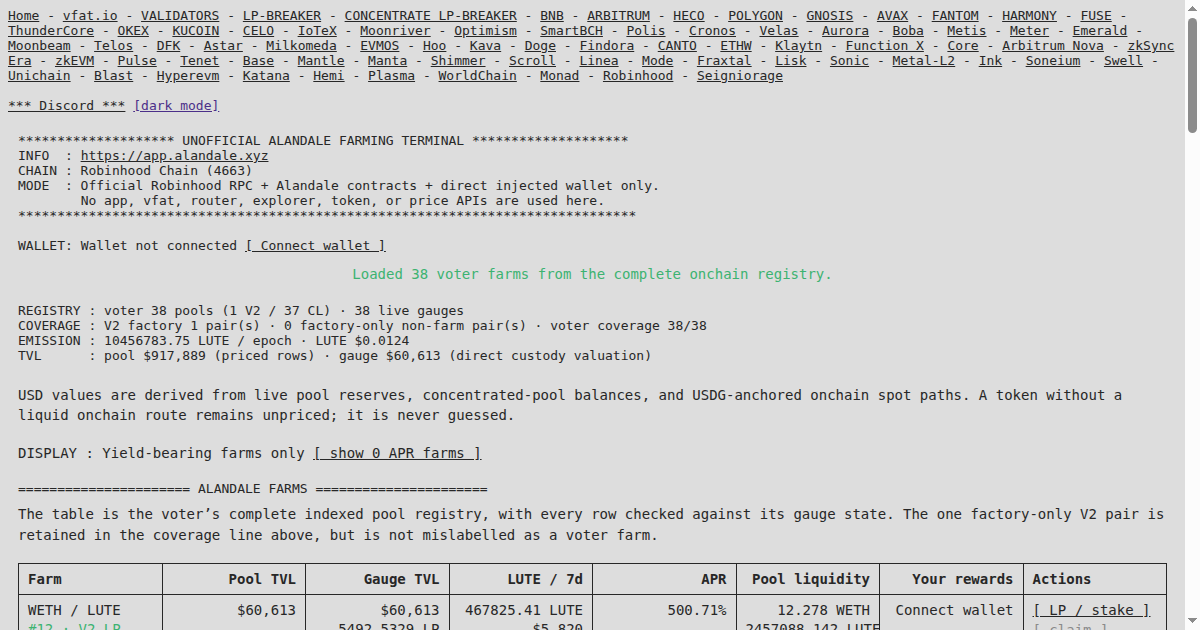
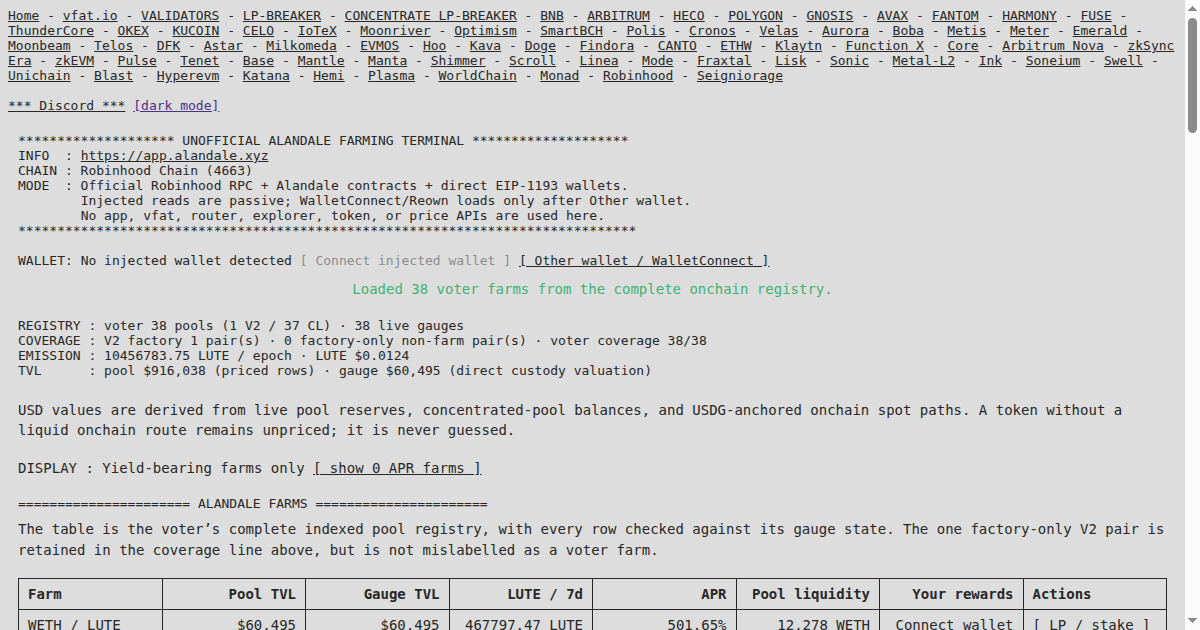
Add lazy Alandale other wallet path

Changed region(s): [[0.0, 0.2714, 0.9867, 1.0], [0.555, 0.9048, 0.9558, 1.0]]

diff --git a/src/js/robinhood_alandale.js b/src/js/robinhood_alandale.js
@@ -43,8 +43,11 @@ const Alandale = (function () {
   const maxUint = ethers.constants.MaxUint256
   const max128 = ethers.BigNumber.from(2).pow(128).sub(1)
   const Q96 = Math.pow(2, 96)
+  // The existing vfat.io AppKit project is intentionally referenced only by
+  // connectReown(), whose config module is dynamically imported after intent.
+  const reownProjectId = process.env.REOWN_PROJECT_ID || '3e6154a7158ff5f7509f24405fc3b551'
   const state = {
-    rpc: null, eip1193: null, account: null, walletChain: null, farms: [], farmByPool: new Map(), farmByGauge: new Map(), tokens: new Map(), prices: new Map(),
+    rpc: null, eip1193: null, walletSource: null, account: null, walletChain: null, walletListenerCleanup: [], reownUnsubscribe: null, farms: [], farmByPool: new Map(), farmByGauge: new Map(), tokens: new Map(), prices: new Map(),
     voterCounts: null, factoryPairs: [], factoryOnlyPairs: [], weeklyEmission: ethers.constants.Zero, epoch: ethers.constants.Zero, totalWeight: ethers.constants.Zero,
     showZeroApr: false, loading: false, loadingText: '', status: '', statusType: '', walletLoading: false, sending: false, positions: [], walletTokenBalances: new Map(), action: null
   }
@@ -55,6 +58,7 @@ const Alandale = (function () {
   const clean = function (value, length) { return String(value || '—').replace(/[\r\n|]/g, ' ').replace(/\s+/g, ' ').trim().slice(0, length || 44) || '—' }
   const short = function (address) { return address ? address.slice(0, 6) + '…' + address.slice(-4) : '—' }
   const isZero = function (address) { return !address || lower(address) === zero }
+  const injectedWallet = function () { return window.ethereum && typeof window.ethereum.request === 'function' ? window.ethereum : null }
   const deadline = function () { return Math.floor(Date.now() / 1000) + 1200 }
   const errText = function (error) { return String(error && (error.reason || error.data && error.data.message || error.message) || error).replace(/^Error: /, '').slice(0, 500) }
   const asNumber = function (amount, decimals) {
@@ -146,37 +150,88 @@ const Alandale = (function () {
     return left.concat(right)
   }
 
+  function clearProviderListeners () {
+    state.walletListenerCleanup.forEach(function (cleanup) { cleanup() })
+    state.walletListenerCleanup = []
+  }
+  function clearReownSubscription () {
+    if (state.reownUnsubscribe) state.reownUnsubscribe()
+    state.reownUnsubscribe = null
+  }
+  function clearWalletEvents () { clearProviderListeners(); clearReownSubscription() }
+  function bindProviderEvents (provider) {
+    clearProviderListeners()
+    if (!provider || typeof provider.on !== 'function') return
+    const accountsChanged = function (accounts) {
+      if (state.eip1193 !== provider) return
+      state.account = accounts && accounts[0] ? ethers.utils.getAddress(accounts[0]) : null
+      if (!state.account) { state.positions = []; state.walletTokenBalances = new Map(); render(); return }
+      refreshWallet().catch(fatal)
+    }
+    const chainChanged = function (walletChain) {
+      if (state.eip1193 !== provider) return
+      state.walletChain = walletChain
+      refreshWallet().catch(fatal)
+    }
+    provider.on('accountsChanged', accountsChanged); provider.on('chainChanged', chainChanged)
+    const remove = typeof provider.removeListener === 'function' ? provider.removeListener.bind(provider) : typeof provider.off === 'function' ? provider.off.bind(provider) : null
+    if (remove) {
+      state.walletListenerCleanup.push(function () { remove('accountsChanged', accountsChanged) })
+      state.walletListenerCleanup.push(function () { remove('chainChanged', chainChanged) })
+    }
+  }
+  async function adoptWallet (provider, accounts, source, walletChain) {
+    if (!provider || !accounts || !accounts[0]) return false
+    state.eip1193 = provider; state.walletSource = source; state.walletChain = walletChain
+    state.account = ethers.utils.getAddress(accounts[0]); bindProviderEvents(provider); render()
+    return true
+  }
   async function passiveWallet () {
-    const injected = window.ethereum && typeof window.ethereum.request === 'function' ? window.ethereum : null
+    const injected = injectedWallet()
     if (!injected) return false
     try {
-      // Only passive EIP-1193 reads occur on page load. No connector and no
-      // permission prompt is created until the user presses Connect.
+      // Startup is intentionally limited to the injected provider's passive
+      // account and chain reads. Reown is neither imported nor probed here.
       const values = await Promise.all([injected.request({ method: 'eth_accounts' }), injected.request({ method: 'eth_chainId' })])
-      state.eip1193 = injected; state.walletChain = values[1]
-      state.account = values[0] && values[0][0] ? ethers.utils.getAddress(values[0][0]) : null
-      if (injected.on) {
-        injected.on('accountsChanged', function (accounts) { state.account = accounts && accounts[0] ? ethers.utils.getAddress(accounts[0]) : null; refreshWallet().catch(fatal) })
-        injected.on('chainChanged', function (walletChain) { state.walletChain = walletChain; refreshWallet().catch(fatal) })
-      }
-      return !!state.account
+      return adoptWallet(injected, values[0], 'injected', values[1])
     } catch (error) { console.warn('Passive injected-wallet read failed', error); return false }
   }
-
   async function connectWallet () {
-    const injected = window.ethereum && typeof window.ethereum.request === 'function' ? window.ethereum : null
-    if (!injected) throw new Error('No injected EIP-1193 wallet was found in this browser.')
-    state.eip1193 = injected
-    const accounts = await injected.request({ method: 'eth_requestAccounts' })
-    state.walletChain = await injected.request({ method: 'eth_chainId' })
-    if (state.walletChain !== chain.id) {
+    const injected = injectedWallet()
+    if (!injected) throw new Error('No injected EIP-1193 wallet was found in this browser. Use Other wallet for WalletConnect.')
+    const accounts = await injected.request({ method: 'eth_requestAccounts' }); let walletChain = await injected.request({ method: 'eth_chainId' })
+    if (walletChain !== chain.id) {
       await injected.request({ method: 'wallet_switchEthereumChain', params: [{ chainId: chain.id }] })
-      state.walletChain = await injected.request({ method: 'eth_chainId' })
+      walletChain = await injected.request({ method: 'eth_chainId' })
     }
-    if (state.walletChain !== chain.id) throw new Error('Switch the wallet to Robinhood Chain before sending a transaction.')
-    state.account = accounts && accounts[0] ? ethers.utils.getAddress(accounts[0]) : null
-    if (!state.account) throw new Error('The wallet did not return an account.')
-    await refreshWallet()
+    if (walletChain !== chain.id) throw new Error('Switch the wallet to Robinhood Chain before sending a transaction.')
+    if (!await adoptWallet(injected, accounts, 'injected', walletChain)) throw new Error('The wallet did not return an account.')
+    clearReownSubscription(); await refreshWallet()
+  }
+  async function adoptReownWallet (appKit, address) {
+    const provider = await appKit.getWalletProvider()
+    if (!provider || typeof provider.request !== 'function') throw new Error('WalletConnect did not provide an EIP-1193 wallet.')
+    const values = await Promise.all([provider.request({ method: 'eth_accounts' }), provider.request({ method: 'eth_chainId' })])
+    const accounts = values[0] && values[0].length ? values[0] : address ? [address] : []
+    const adopted = await adoptWallet(provider, accounts, 'reown', values[1])
+    if (adopted) { clearReownSubscription(); await refreshWallet() }
+    return adopted
+  }
+  async function connectReown () {
+    // This dynamic import is the only path that loads the established AppKit
+    // and WalletConnect code. It is never present in the first-load waterfall.
+    const reown = await import('./config.js')
+    const appKit = reown.createAppKitInstance(reownProjectId)
+    if (!appKit) throw new Error('WalletConnect is unavailable in this browser.')
+    const address = appKit.getAddress && appKit.getAddress()
+    if (address && await adoptReownWallet(appKit, address)) return true
+    if (!state.reownUnsubscribe && appKit.subscribeAccount) {
+      state.reownUnsubscribe = appKit.subscribeAccount(function (accountState) {
+        if (!accountState || !accountState.isConnected || !accountState.address) return
+        adoptReownWallet(appKit, accountState.address).catch(function (error) { setStatus(errText(error), 'error') })
+      })
+    }
+    await appKit.open(); return false
   }
 
   async function loadRegistry () {
@@ -488,10 +543,13 @@ const Alandale = (function () {
   }
 
   function renderWallet () {
-    const node = byId('alandale-wallet-status'); const connect = byId('alandale-connect'); if (!node || !connect) return
-    connect.disabled = state.sending || state.walletLoading
-    if (!state.account) { node.textContent = 'Wallet not connected'; connect.hidden = false; return }
-    node.textContent = state.walletChain === chain.id ? short(state.account) : 'Switch wallet to Robinhood Chain'; connect.hidden = true
+    const node = byId('alandale-wallet-status'); const connect = byId('alandale-connect'); const other = byId('alandale-other-wallet'); if (!node || !connect || !other) return
+    const injected = injectedWallet(); connect.textContent = '[ Connect injected wallet ]'; other.textContent = '[ Other wallet / WalletConnect ]'
+    connect.disabled = state.sending || state.walletLoading || !injected; other.disabled = state.sending || state.walletLoading
+    connect.hidden = false; other.hidden = false
+    if (!state.account) { node.textContent = injected ? 'Wallet not connected' : 'No injected wallet detected'; return }
+    const source = state.walletSource === 'reown' ? 'WalletConnect' : 'injected'
+    node.textContent = (state.walletChain === chain.id ? short(state.account) : 'Switch wallet to Robinhood Chain') + ' via ' + source
   }
   function renderOverview () {
     const node = byId('alandale-overview'); if (!node || !state.voterCounts) return
@@ -532,12 +590,13 @@ const Alandale = (function () {
     table.appendChild(body); host.appendChild(table)
   }
   function bindEvents () {
-    const connect = byId('alandale-connect'); const toggle = byId('alandale-zero-apr-toggle')
+    const connect = byId('alandale-connect'); const other = byId('alandale-other-wallet'); const toggle = byId('alandale-zero-apr-toggle')
     if (connect) connect.addEventListener('click', function () { connectWallet().catch(function (error) { setStatus(errText(error), 'error') }) })
+    if (other) other.addEventListener('click', function () { connectReown().catch(function (error) { setStatus(errText(error), 'error') }) })
     if (toggle) toggle.addEventListener('click', function () { state.showZeroApr = !state.showZeroApr; renderFarms() })
   }
   function render () { renderWallet(); renderOverview(); renderFarms(); renderPositions() }
-  async function start () { state.rpc = new ethers.providers.JsonRpcProvider(chain.rpc, chain.number); bindEvents(); render(); const wallet = passiveWallet(); await loadRegistry(); await wallet; if (state.account) await refreshWallet() }
+  async function start () { state.rpc = new ethers.providers.JsonRpcProvider(chain.rpc, chain.number); bindEvents(); window.addEventListener('pagehide', clearWalletEvents, { once: true }); render(); const wallet = passiveWallet(); await loadRegistry(); await wallet; if (state.account) await refreshWallet() }
   function fatal (error) { console.error(error); setLoading(); setStatus('ALANDALE COULD NOT LOAD\n' + errText(error) + '\nThis page only uses the official Robinhood RPC. Check the connection and try again.', 'error'); render() }
   return { start: start, fatal: fatal }
 })()
